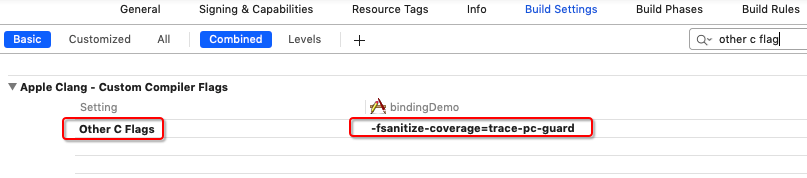
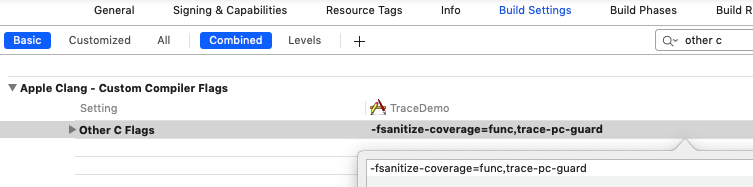
更新文档

diff --git a/_posts/Underlying_Principle/2019-09-08-启动优化（二）.md b/_posts/Underlying_Principle/2019-09-08-启动优化（二）.md
@@ -238,9 +238,15 @@ _main
 
 - [Clang 官网](https://clang.llvm.org/docs/SanitizerCoverage.html)
 
-先来看看如何配置clang插庄
+**一、先来看看如何配置clang插庄**
 
+OC配置：-fsanitize-coverage=trace-pc-guard
 <img src="/images/underlying/start10.png" alt="img">
+
+swift配置：-sanitize-coverage=func -sanitize=undefined
+
+<img src="/images/underlying/start13.png" alt="img">
+
 
 在任意一个类文件内添加如下方法：
 ```
@@ -351,8 +357,91 @@ dli_saddr：被调用符号的起始指令地址
 
 至此就完成了hook所有符号的工作。
 
+**二、生成order文件**
+
+引入头文件 #import <libkern/OSAtomic.h>
+
+```
+//原子队列
+static  OSQueueHead symbolList = OS_ATOMIC_QUEUE_INIT;
+//定义符号结构体
+typedef struct {
+    void *pc;
+    void *next;
+}SYNode;
 
 
+void __sanitizer_cov_trace_pc_guard(uint32_t *guard) {
+    if (!*guard) return;
+    
+    void *PC = __builtin_return_address(0);
+    printf("pc:%p\n",PC);
+    char PcDescr[1024];
+    
+    SYNode *node = malloc(sizeof(SYNode));
+    *node = (SYNode){PC,NULL};
+    //进入
+    OSAtomicEnqueue(&symbolList, node, offsetof(SYNode, next));
+
+    
+    Dl_info info;
+    dladdr(PC, &info);
+    
+    NSLog(@"dli_fname:%s",info.dli_fname);
+    NSLog(@"dli_fbase:%p",info.dli_fbase);
+    NSLog(@"dli_sname:%s",info.dli_sname);
+    NSLog(@"dli_saddr:%p",info.dli_saddr);
+    printf("guard: %p %x PC %s\n", guard, *guard, PcDescr);
+}
+
+-(void)generateOrderFile{
+    NSMutableArray <NSString *> * symbolNames = [NSMutableArray array];
+    
+    while (YES) {
+        SYNode * node = OSAtomicDequeue(&symbolList, offsetof(SYNode, next));
+        if (node == NULL) {
+            break;
+        }
+        Dl_info info;
+        dladdr(node->pc, &info);
+        NSString * name = @(info.dli_sname);
+        BOOL  isObjc = [name hasPrefix:@"+["] || [name hasPrefix:@"-["];
+        NSString * symbolName = isObjc ? name: [@"_" stringByAppendingString:name];
+        [symbolNames addObject:symbolName];
+    }
+    //取反
+    NSEnumerator * emt = [symbolNames reverseObjectEnumerator];
+    //去重
+    NSMutableArray<NSString *> *funcs = [NSMutableArray arrayWithCapacity:symbolNames.count];
+    NSString * name;
+    while (name = [emt nextObject]) {
+        if (![funcs containsObject:name]) {
+            [funcs addObject:name];
+        }
+    }
+    //干掉自己!
+    [funcs removeObject:[NSString stringWithFormat:@"%s",__FUNCTION__]];
+    //将数组变成字符串
+    NSString * funcStr = [funcs  componentsJoinedByString:@"\n"];
+    
+    NSString * filePath = [NSTemporaryDirectory() stringByAppendingPathComponent:@"binding.order"];
+    NSData * fileContents = [funcStr dataUsingEncoding:NSUTF8StringEncoding];
+    [[NSFileManager defaultManager] createFileAtPath:filePath contents:fileContents attributes:nil];
+    NSLog(@"%@",funcStr);
+}
+```
+
+程序启动后在合适的时机调用generateOrderFile方法，比如在第一个页面的touchesBegan方法内
+
+```
+-(void)touchesBegan:(NSSet<UITouch *> *)touches withEvent:(UIEvent *)event{
+    [self generateOrderFile];
+}
+```
+
+取出binding.order文件，按照上面的二进制重拍配置binding.order。
+
+<span style="color:red">配置完成后Clang插庄的配置和代码就可以删掉了</span>
 
 
 
